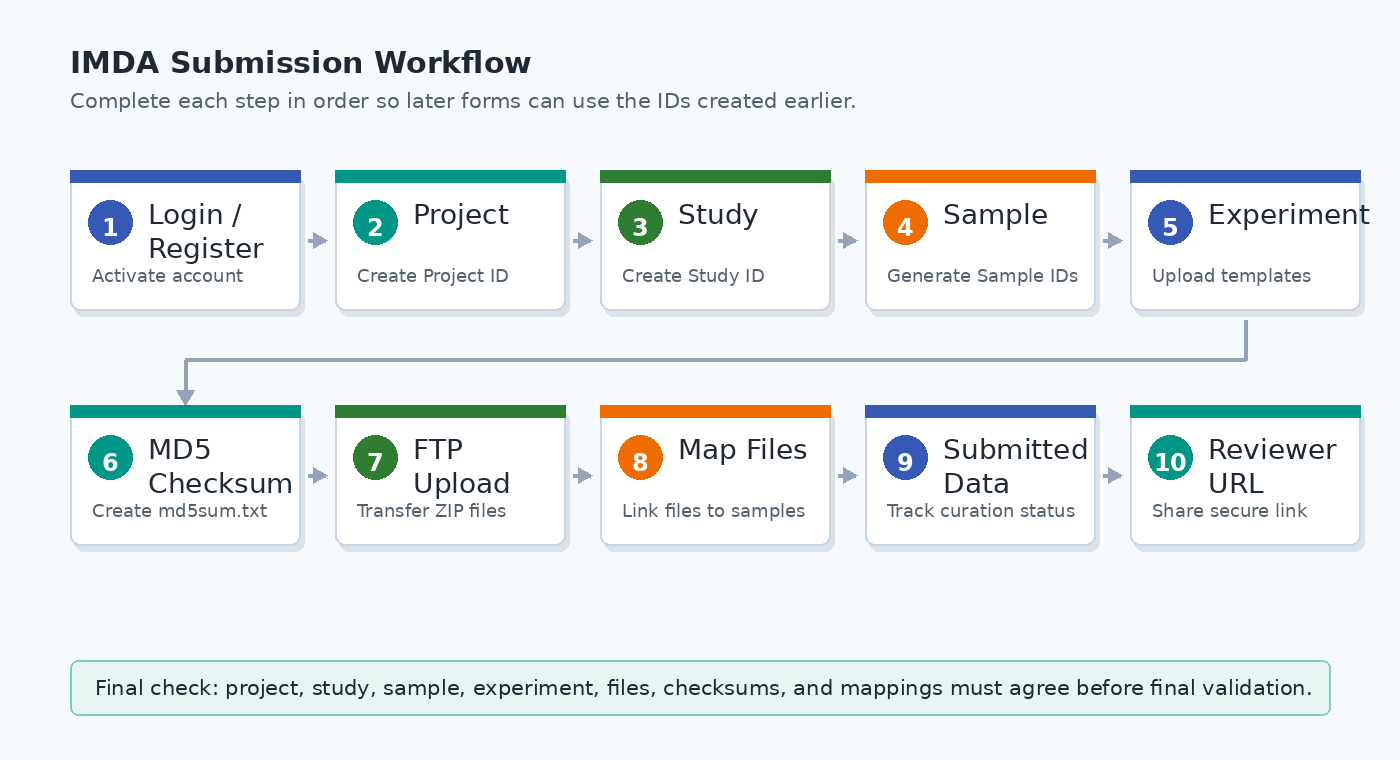
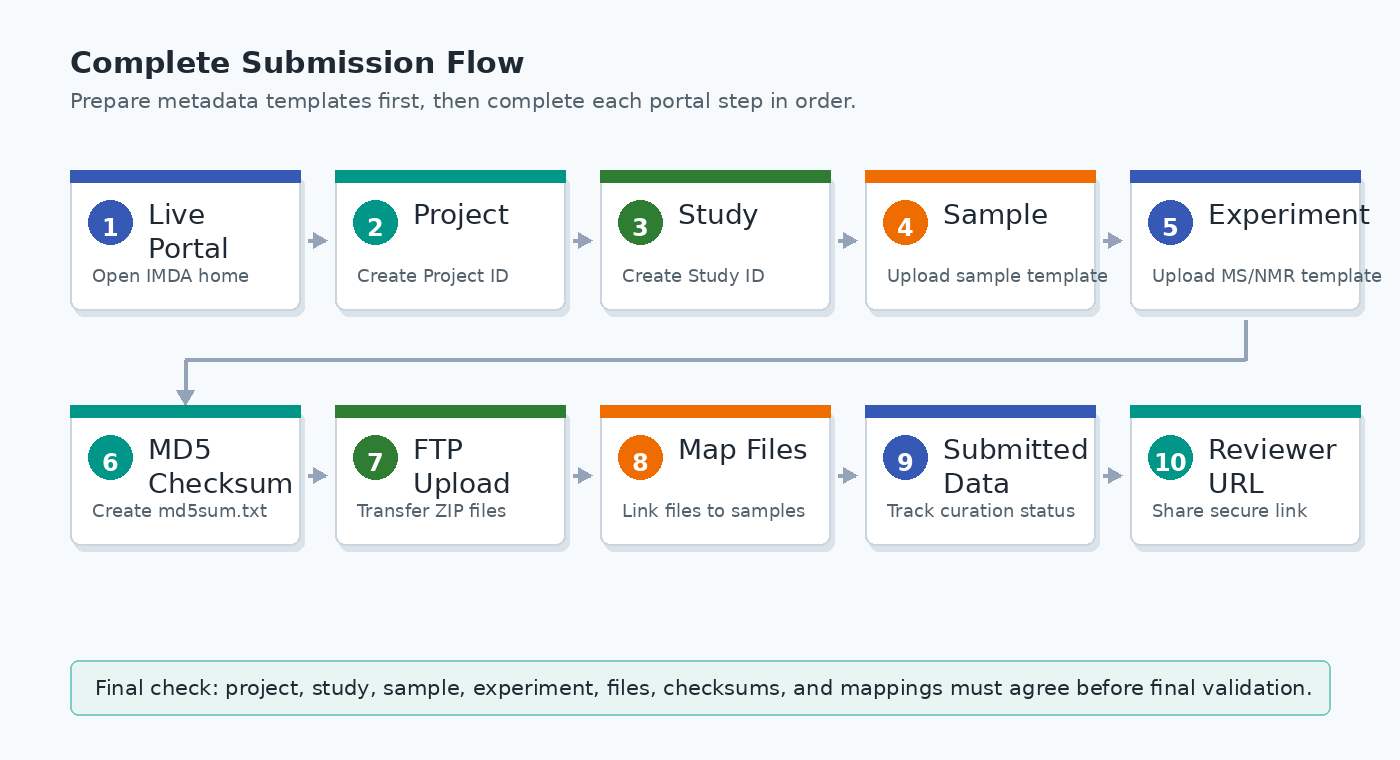
Deployed 31a47ad with MkDocs version: 1.6.1

diff --git a/before-you-start/index.html b/before-you-start/index.html
@@ -293,6 +293,15 @@
 </li>
       
         <li class="md-nav__item">
+  <a href="#metadata-template-files" class="md-nav__link">
+    <span class="md-ellipsis">
+      Metadata Template Files
+    </span>
+  </a>
+  
+</li>
+      
+        <li class="md-nav__item">
   <a href="#data-and-file-preparation" class="md-nav__link">
     <span class="md-ellipsis">
       Data and File Preparation
@@ -552,6 +561,15 @@
 </li>
       
         <li class="md-nav__item">
+  <a href="#metadata-template-files" class="md-nav__link">
+    <span class="md-ellipsis">
+      Metadata Template Files
+    </span>
+  </a>
+  
+</li>
+      
+        <li class="md-nav__item">
   <a href="#data-and-file-preparation" class="md-nav__link">
     <span class="md-ellipsis">
       Data and File Preparation
@@ -586,86 +604,45 @@
 
 
 <h1 id="before-you-start">Before You Start</h1>
-<p>Complete these checks before beginning a new IMDA submission.</p>
+<p>Complete these checks before beginning a new IMDA submission in the live portal.</p>
 <div class="admonition info">
-<p class="admonition-title">Testing Portal</p>
-<p>Use the IMDA testing database for validation: <a href="https://ibdc.dbt.gov.in/imda_test/">https://ibdc.dbt.gov.in/imda_test/</a>.</p>
+<p class="admonition-title">IMDA Portal</p>
+<p>Use the live IMDA portal for submission: <a href="https://ibdc.dbt.gov.in/imda/home.html">https://ibdc.dbt.gov.in/imda/home.html</a>.</p>
 </div>
 <h2 id="complete-submission-flow">Complete Submission Flow</h2>
-<p>Follow the IMDA workflow in this order so that every later form can use the identifiers created in the earlier steps.</p>
+<p><img alt="IMDA submission workflow from login and registration to reviewer access URL." src="../assets/img/submission_flow.png" /></p>
+<h2 id="metadata-template-files">Metadata Template Files</h2>
+<p>Download and review the metadata templates before filling the portal forms. These files help users prepare the sample and experiment metadata in the required structure.</p>
 <table>
 <thead>
 <tr>
-<th style="text-align: left;">Step</th>
-<th style="text-align: left;">IMDA Menu</th>
-<th style="text-align: left;">What Happens</th>
-<th style="text-align: left;">Output Needed for Next Step</th>
+<th style="text-align: left;">Template</th>
+<th style="text-align: left;">Use This For</th>
+<th style="text-align: left;">Key Details to Prepare</th>
 </tr>
 </thead>
 <tbody>
 <tr>
-<td style="text-align: left;">1</td>
-<td style="text-align: left;"><strong>Login / Register</strong></td>
-<td style="text-align: left;">Create and activate the user account, then log in.</td>
-<td style="text-align: left;">Active IMDA user account.</td>
+<td style="text-align: left;"><a href="../assets/templates/Sample_file_template.xlsx">Sample metadata template</a></td>
+<td style="text-align: left;">Sample registration.</td>
+<td style="text-align: left;">Sample name, sample type, preparation protocol, extraction protocol, experimental condition, replicate details, storage condition, and number of files per sample.</td>
 </tr>
 <tr>
-<td style="text-align: left;">2</td>
-<td style="text-align: left;"><strong>Register Project</strong></td>
-<td style="text-align: left;">Enter the project title, contributors, research area, funding source, and description.</td>
-<td style="text-align: left;">Project ID.</td>
+<td style="text-align: left;"><a href="../assets/templates/MS_file_template.xlsx">MS experiment template</a></td>
+<td style="text-align: left;">Mass spectrometry experiment registration.</td>
+<td style="text-align: left;">Sample ID, sample name, reference standard, chromatography details, MS instrument, ionization method, ion mode/scan polarity, transformation software, and raw data file details.</td>
 </tr>
 <tr>
-<td style="text-align: left;">3</td>
-<td style="text-align: left;"><strong>Register Study</strong></td>
-<td style="text-align: left;">Link the study to the project and enter study details, authors, data type, summary, keywords, release date, and publication/approval details.</td>
-<td style="text-align: left;">Study ID.</td>
-</tr>
-<tr>
-<td style="text-align: left;">4</td>
-<td style="text-align: left;"><strong>Register Sample</strong></td>
-<td style="text-align: left;">Link samples to the study, select source and organism, check taxonomy ID, and upload the sample template.</td>
-<td style="text-align: left;">IMDA sample IDs.</td>
-</tr>
-<tr>
-<td style="text-align: left;">5</td>
-<td style="text-align: left;"><strong>Register Experiment</strong></td>
-<td style="text-align: left;">Upload the metabolite/compound file and the MS or NMR analytical template.</td>
-<td style="text-align: left;">Experiment metadata linked to sample IDs.</td>
-</tr>
-<tr>
-<td style="text-align: left;">6</td>
-<td style="text-align: left;"><strong>Zip and MD5 Checksum</strong></td>
-<td style="text-align: left;">Zip raw data folders where required and generate checksums for the final files.</td>
-<td style="text-align: left;">Final file names and MD5 checksum values.</td>
-</tr>
-<tr>
-<td style="text-align: left;">7</td>
-<td style="text-align: left;"><strong>FTP Files Upload</strong></td>
-<td style="text-align: left;">Upload zipped raw/derived data files to the correct project and study folder.</td>
-<td style="text-align: left;">Uploaded files visible on the server.</td>
-</tr>
-<tr>
-<td style="text-align: left;">8</td>
-<td style="text-align: left;"><strong>Map Uploaded Files</strong></td>
-<td style="text-align: left;">Link each uploaded file to the correct study, sample, assay/protocol, and MD5 checksum.</td>
-<td style="text-align: left;">Files validated for the study.</td>
-</tr>
-<tr>
-<td style="text-align: left;">9</td>
-<td style="text-align: left;"><strong>Submitted Data</strong></td>
-<td style="text-align: left;">Check submission status and respond to any curator-requested corrections.</td>
-<td style="text-align: left;">Submitted or curated study record.</td>
-</tr>
-<tr>
-<td style="text-align: left;">10</td>
-<td style="text-align: left;"><strong>Reviewer Access URL</strong></td>
-<td style="text-align: left;">Activate and copy the private reviewer link when needed.</td>
-<td style="text-align: left;">Shareable reviewer URL.</td>
+<td style="text-align: left;"><a href="../assets/templates/NMR_file_template.xlsx">NMR experiment template</a></td>
+<td style="text-align: left;">NMR experiment registration.</td>
+<td style="text-align: left;">Sample ID, sample name, reference standard, NMR instrument, NMR type, experiment type, frequency, probe, solvent, tube size, and transformation software.</td>
 </tr>
 </tbody>
 </table>
-<p><img alt="IMDA submission workflow from login and registration to reviewer access URL." src="../assets/img/submission_flow.png" /></p>
+<div class="admonition tip">
+<p class="admonition-title">Prepare Before Portal Entry</p>
+<p>Keep these templates ready before registering samples and experiments. The sample IDs generated after sample registration must be copied exactly into the MS or NMR experiment template.</p>
+</div>
 <h2 id="data-and-file-preparation">Data and File Preparation</h2>
 <ul>
 <li>Prepare raw and derived data files.</li>

diff --git a/login-register/index.html b/login-register/index.html
@@ -583,17 +583,17 @@
 <tbody>
 <tr>
 <td style="text-align: left;"><strong>User Registration</strong></td>
-<td style="text-align: left;">Open <a href="https://ibdc.dbt.gov.in/imda_test/register/">User Registration</a>.</td>
+<td style="text-align: left;">Open <a href="https://ibdc.dbt.gov.in/imda/register/">User Registration</a>.</td>
 <td style="text-align: left;">Creates the account required for data submission.</td>
 </tr>
 <tr>
 <td style="text-align: left;"><strong>Login</strong></td>
-<td style="text-align: left;">Open <a href="https://ibdc.dbt.gov.in/imda_test/login/">Login</a>.</td>
+<td style="text-align: left;">Open <a href="https://ibdc.dbt.gov.in/imda/login/">Login</a>.</td>
 <td style="text-align: left;">Starts an authenticated session for submission and dashboard access.</td>
 </tr>
 <tr>
 <td style="text-align: left;"><strong>Submit</strong></td>
-<td style="text-align: left;">Click <strong>Submit</strong> after login.</td>
+<td style="text-align: left;">Open <a href="https://ibdc.dbt.gov.in/imda/file_upload/">Submit Data</a> after login.</td>
 <td style="text-align: left;">Opens the new data submission workflow.</td>
 </tr>
 </tbody>

diff --git a/submitted-data/index.html b/submitted-data/index.html
@@ -720,7 +720,7 @@
 </table>
 <div class="admonition info">
 <p class="admonition-title">Processing Timeline</p>
-<p>The testing portal states that submissions are processed within <strong>7 days</strong>, and submitters are notified by email.</p>
+<p>IMDA submissions are reviewed by the curation team after final validation. Check the registered email for curator communication or correction requests.</p>
 </div>
 <p><img alt="IMDA Submitted Data page showing successfully submitted files and OK status." src="../assets/img/submitted_data.png" /></p>
 <h2 id="corrections-after-submission">Corrections After Submission</h2>
